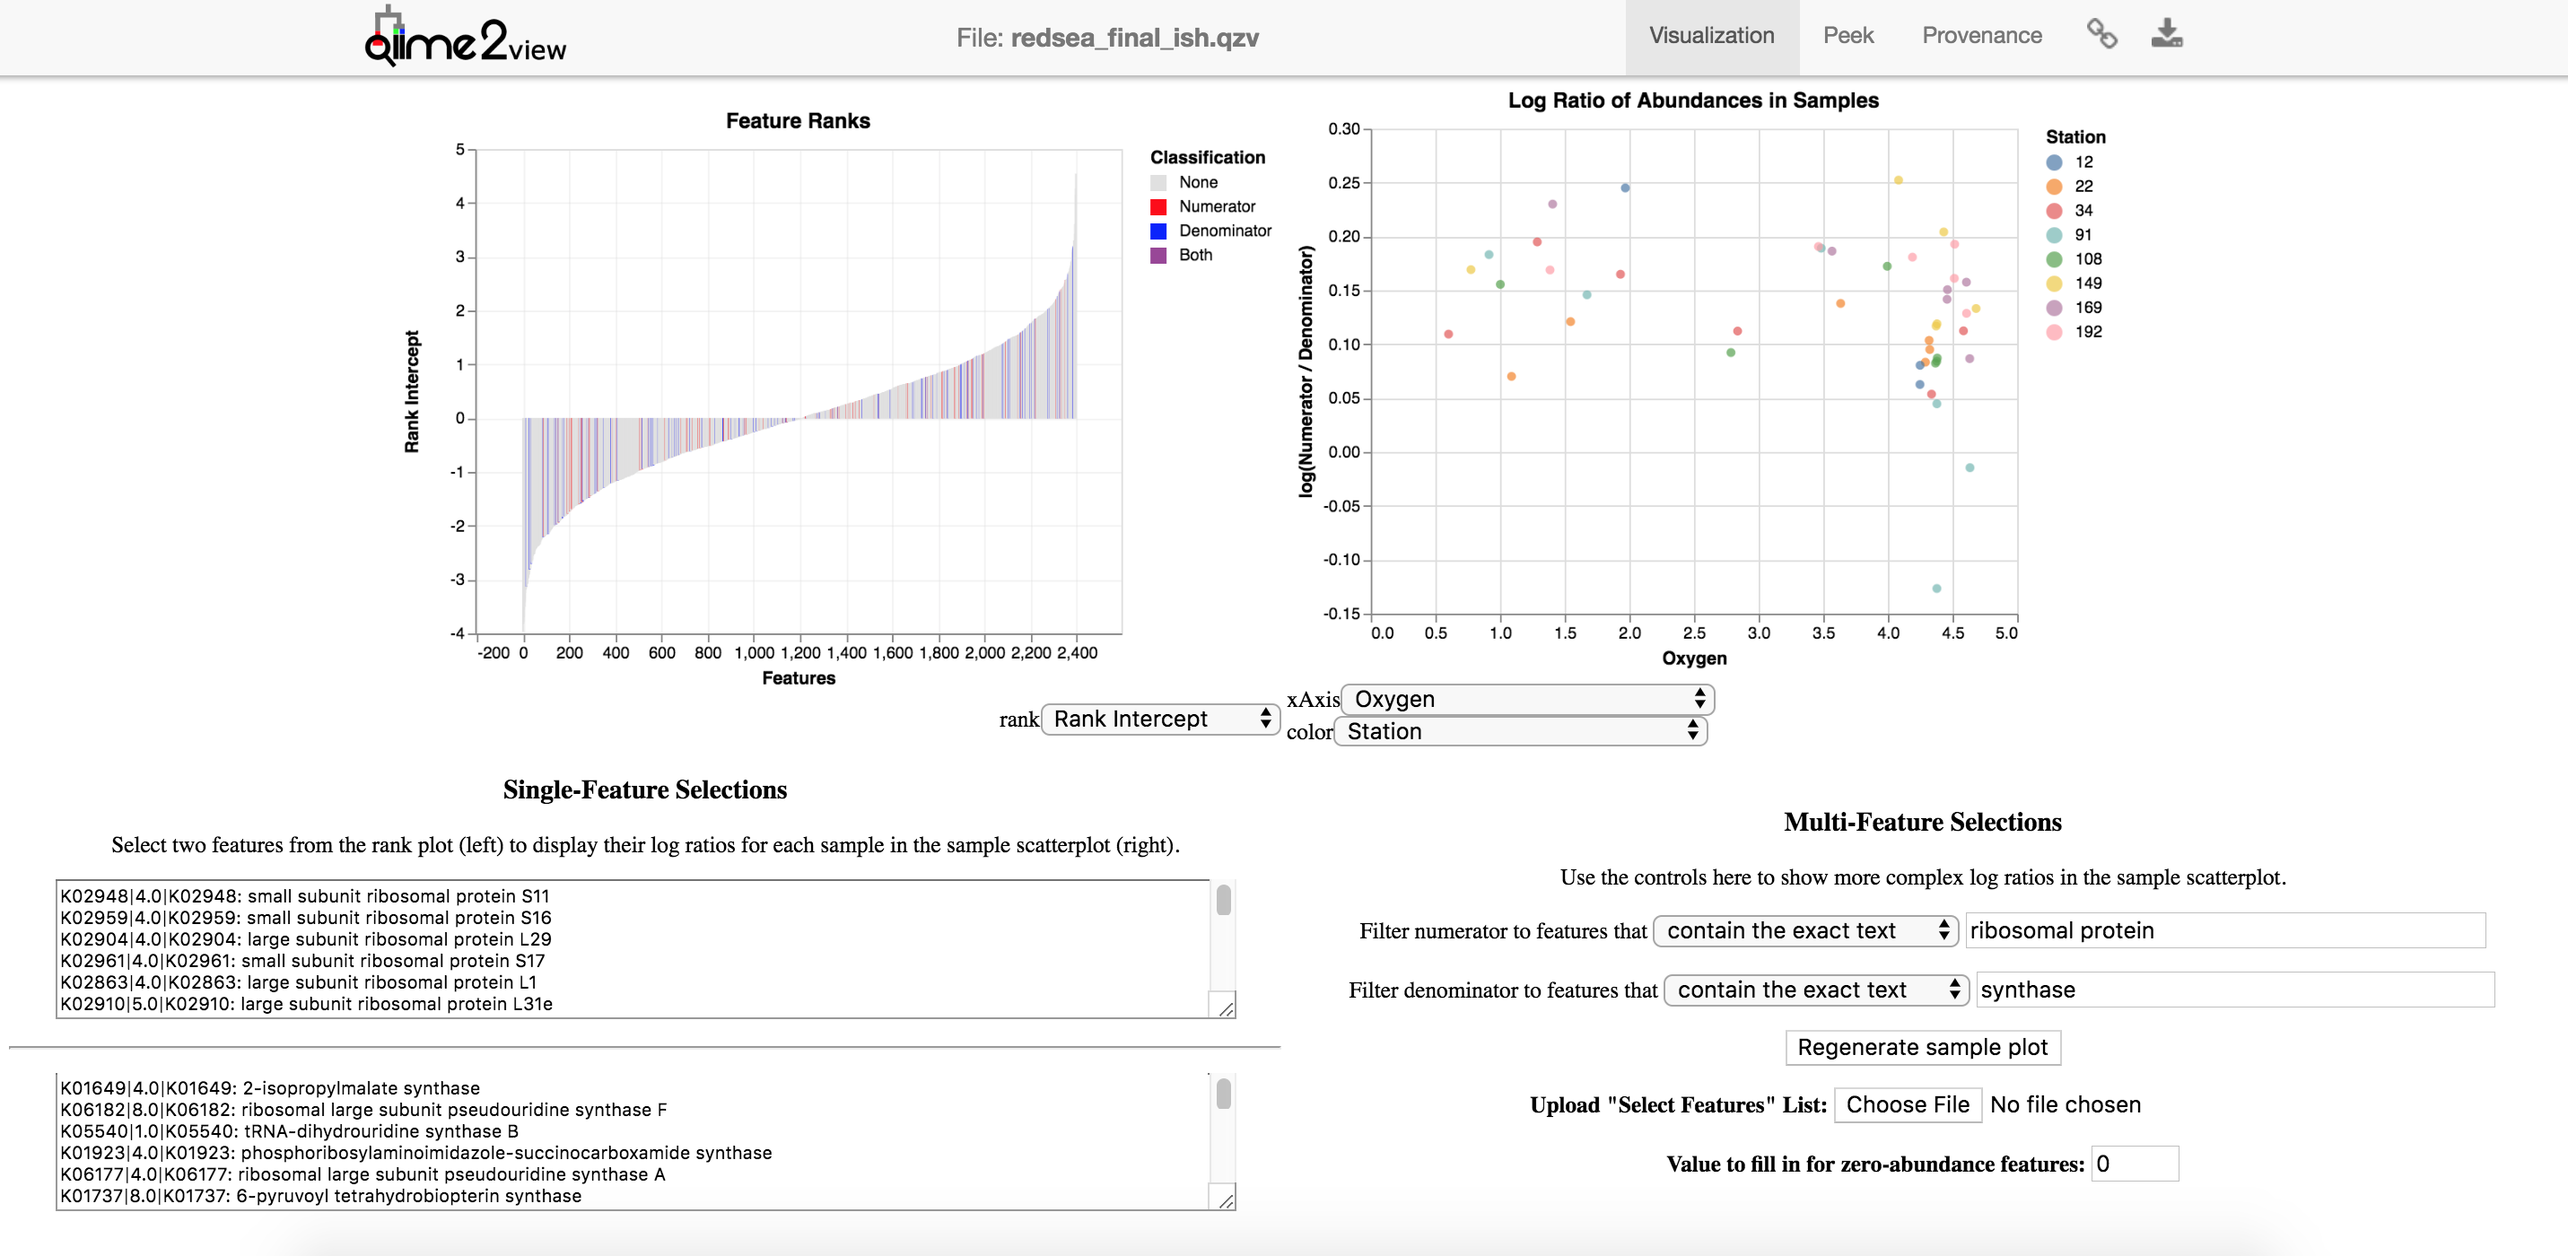
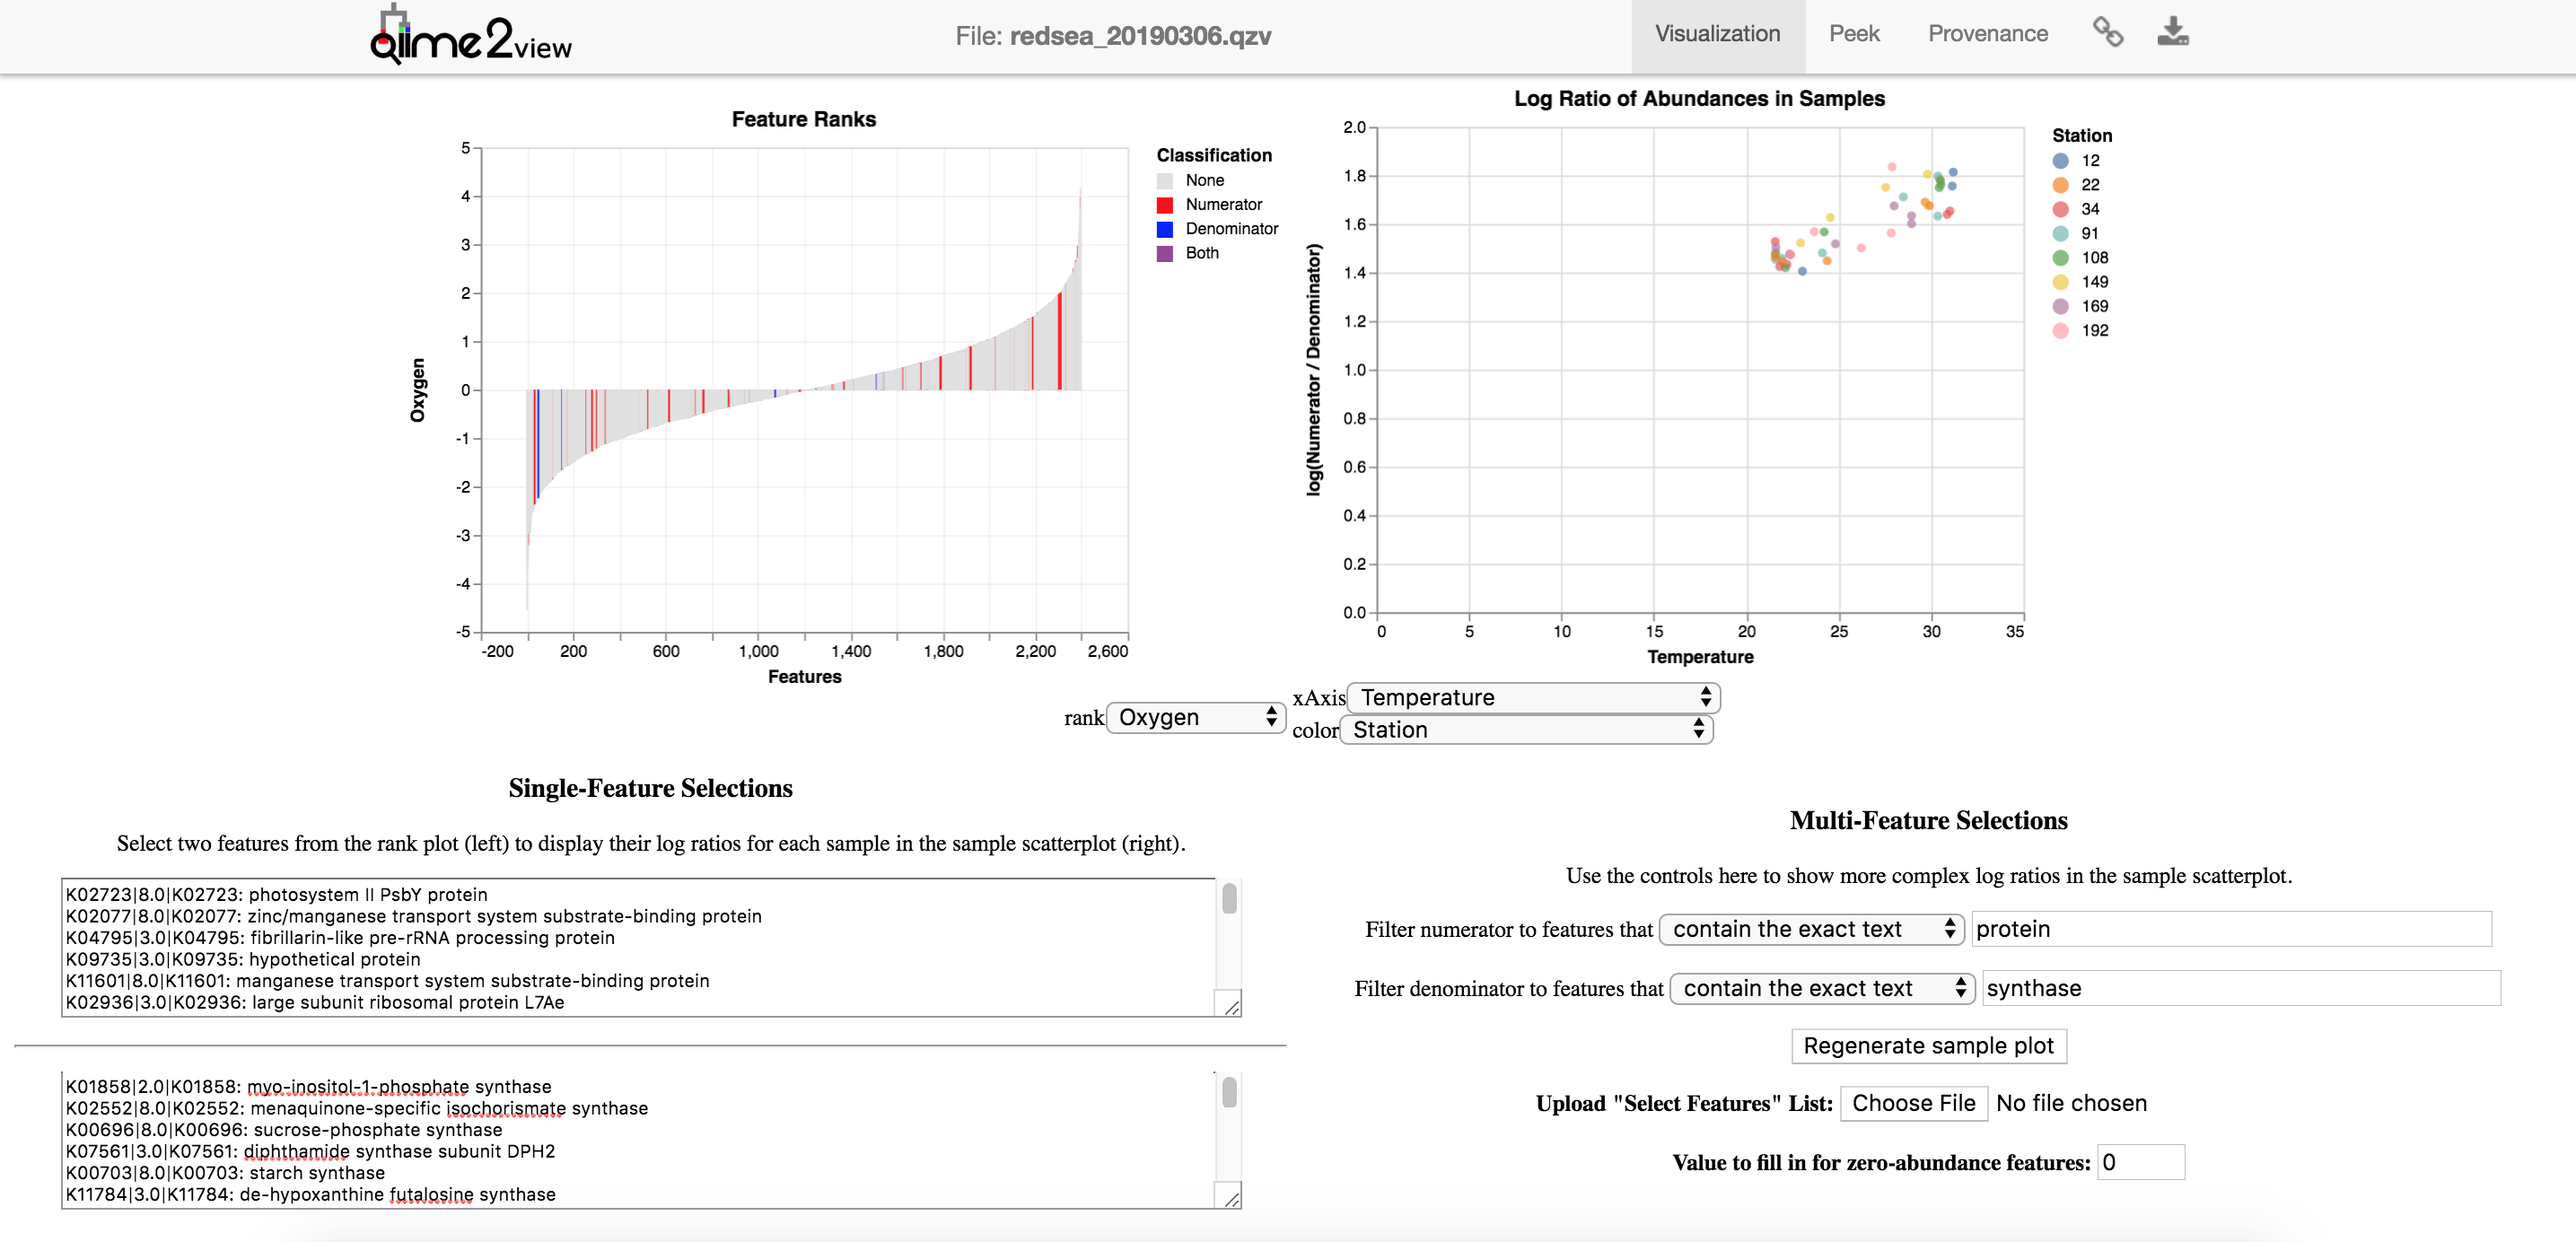
DOC: combine demo&scrnsht; update scrnsht
This also moves up the screenshot/demo section closer to the
top of the README. probs for the better

diff --git a/README.md b/README.md
@@ -19,7 +19,11 @@ rankratioviz is still being developed, so backwards-incompatible changes might
 occur. If you have any questions, feel free to contact the development team at
 [mfedarko@ucsd.edu](mailto:mfedarko@ucsd.edu).
 
-You can view a demo of rankratioviz in the browser [here](https://fedarko.github.io/rrv/).
+## Screenshot and Demo
+
+![Screenshot](https://github.com/fedarko/rankratioviz/blob/master/screenshots/redsea_data.png)
+
+This visualization (which uses some of the [Red Sea metagenome data](https://www.ncbi.nlm.nih.gov/pmc/articles/PMC5315489/), with ranks generated by songbird) can be viewed online [here](https://view.qiime2.org/visualization/?src=https%3A%2F%2Fdl.dropbox.com%2Fs%2Fjuvhoqe6ys4tm52%2Fredsea_20190306.qzv%3Fdl%3D1&type=html).
 
 ## Installation and Usage
 
@@ -100,12 +104,6 @@ taxa with rank X over the combined abundances of all taxa with rank Y").
 Although this method doesn't require you to manually select taxa on the rank
 plot, the rank plot is still updated to indicate the taxa used in the log
 ratios.
-
-## Screenshot
-
-![Screenshot](https://github.com/fedarko/rankratioviz/blob/master/screenshots/redsea_data.png)
-
-This visualization (which uses the [Red Sea data](https://www.ncbi.nlm.nih.gov/pmc/articles/PMC5315489/), with ranks generated by songbird) can be viewed online [here](https://view.qiime2.org/visualization/?type=html&src=https%3A%2F%2Fdl.dropbox.com%2Fs%2Ftai1wilcd8mcovd%2Fredsea_final_ish.qzv).
 
 ## Acknowledgements
 
